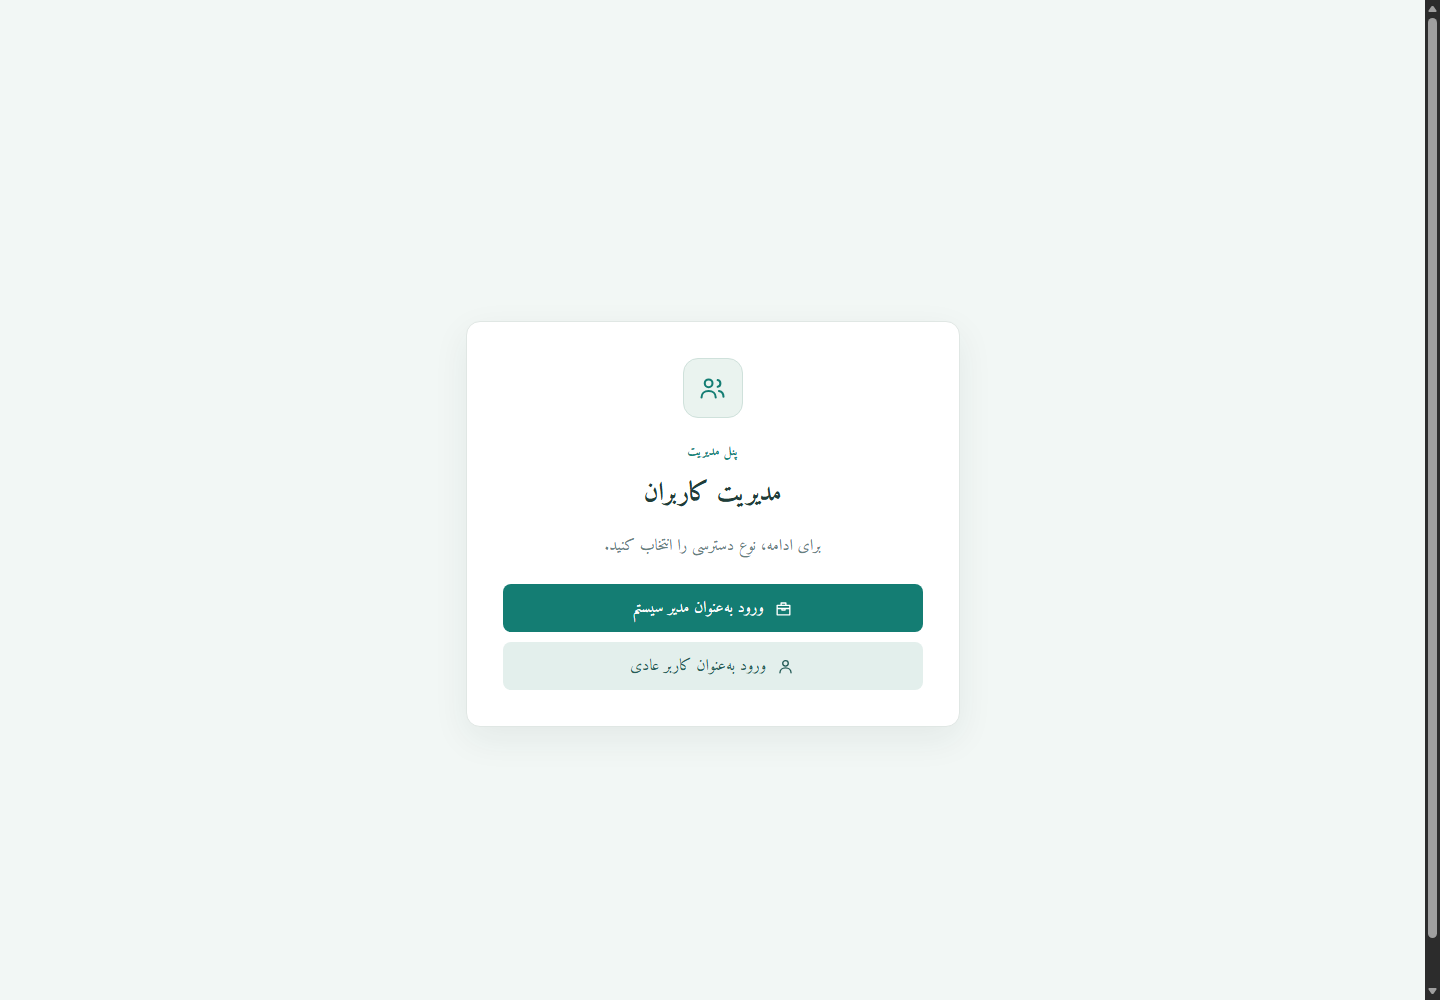
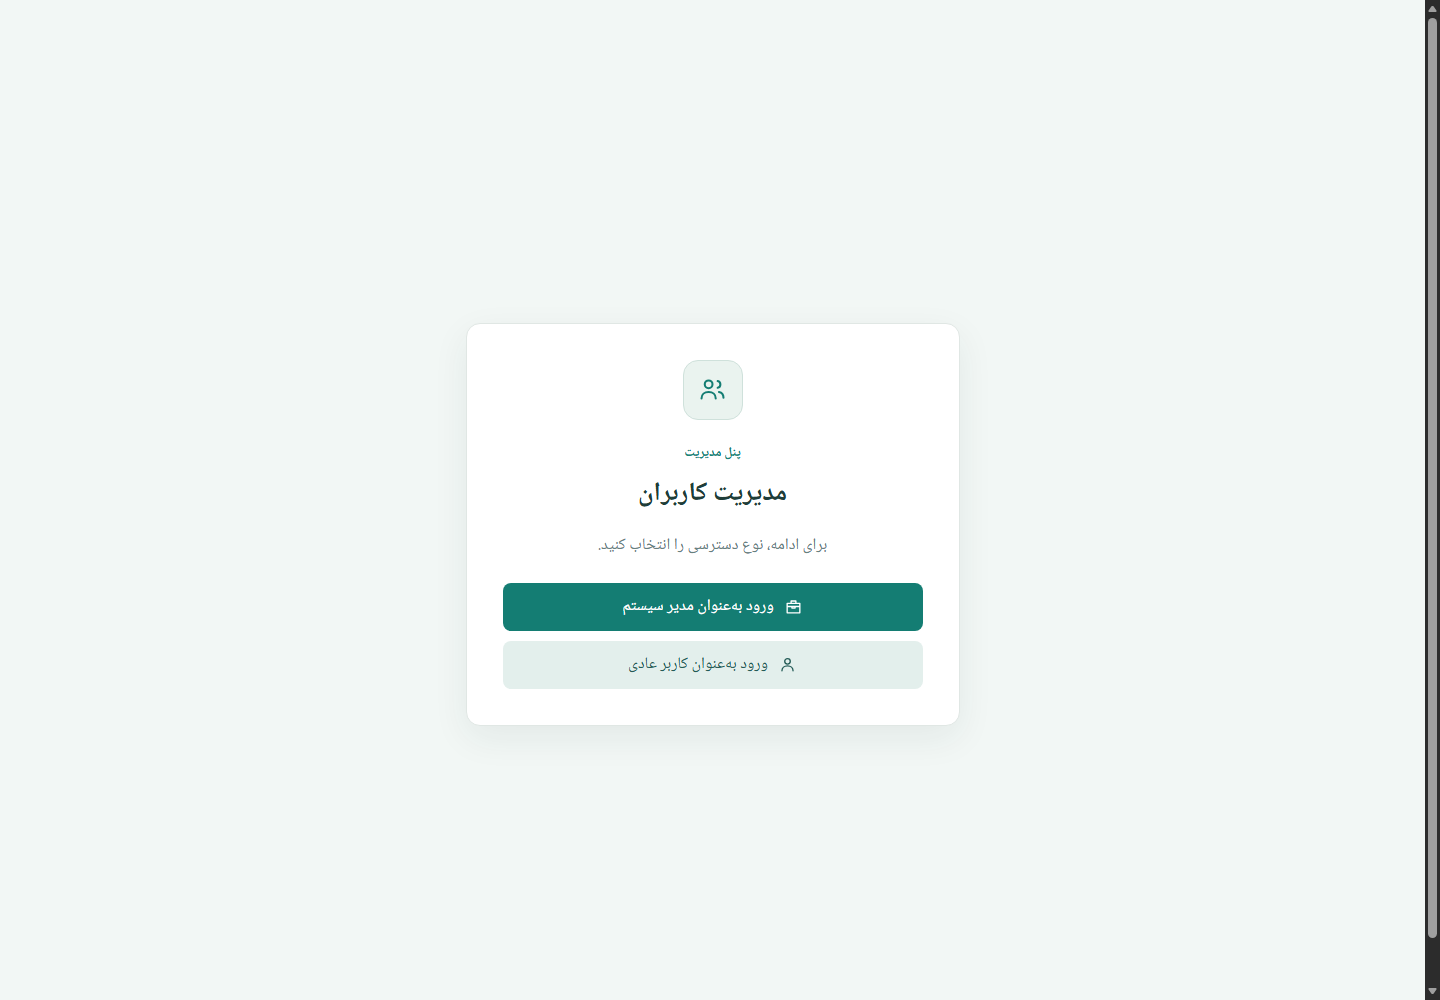
Switch to Noto Naskh Arabic font

diff --git a/src/styles.css b/src/styles.css
@@ -1,9 +1,9 @@
-@import '@fontsource/amiri/400.css';
-@import '@fontsource/amiri/700.css';
+@import '@fontsource/noto-naskh-arabic/400.css';
+@import '@fontsource/noto-naskh-arabic/700.css';
 
 html,
 body {
   min-height: 100%;
   margin: 0;
-  font-family: "Amiri", "Times New Roman", serif;
+  font-family: "Noto Naskh Arabic", "Times New Roman", serif;
 }

diff --git a/src/app/app.css b/src/app/app.css
@@ -3,7 +3,7 @@
   min-height: 100vh;
   color: #173b3b;
   background: #f2f7f5;
-  font-family: "Amiri", "Times New Roman", serif;
+  font-family: "Noto Naskh Arabic", "Times New Roman", serif;
 }
 
 * { box-sizing: border-box; }
